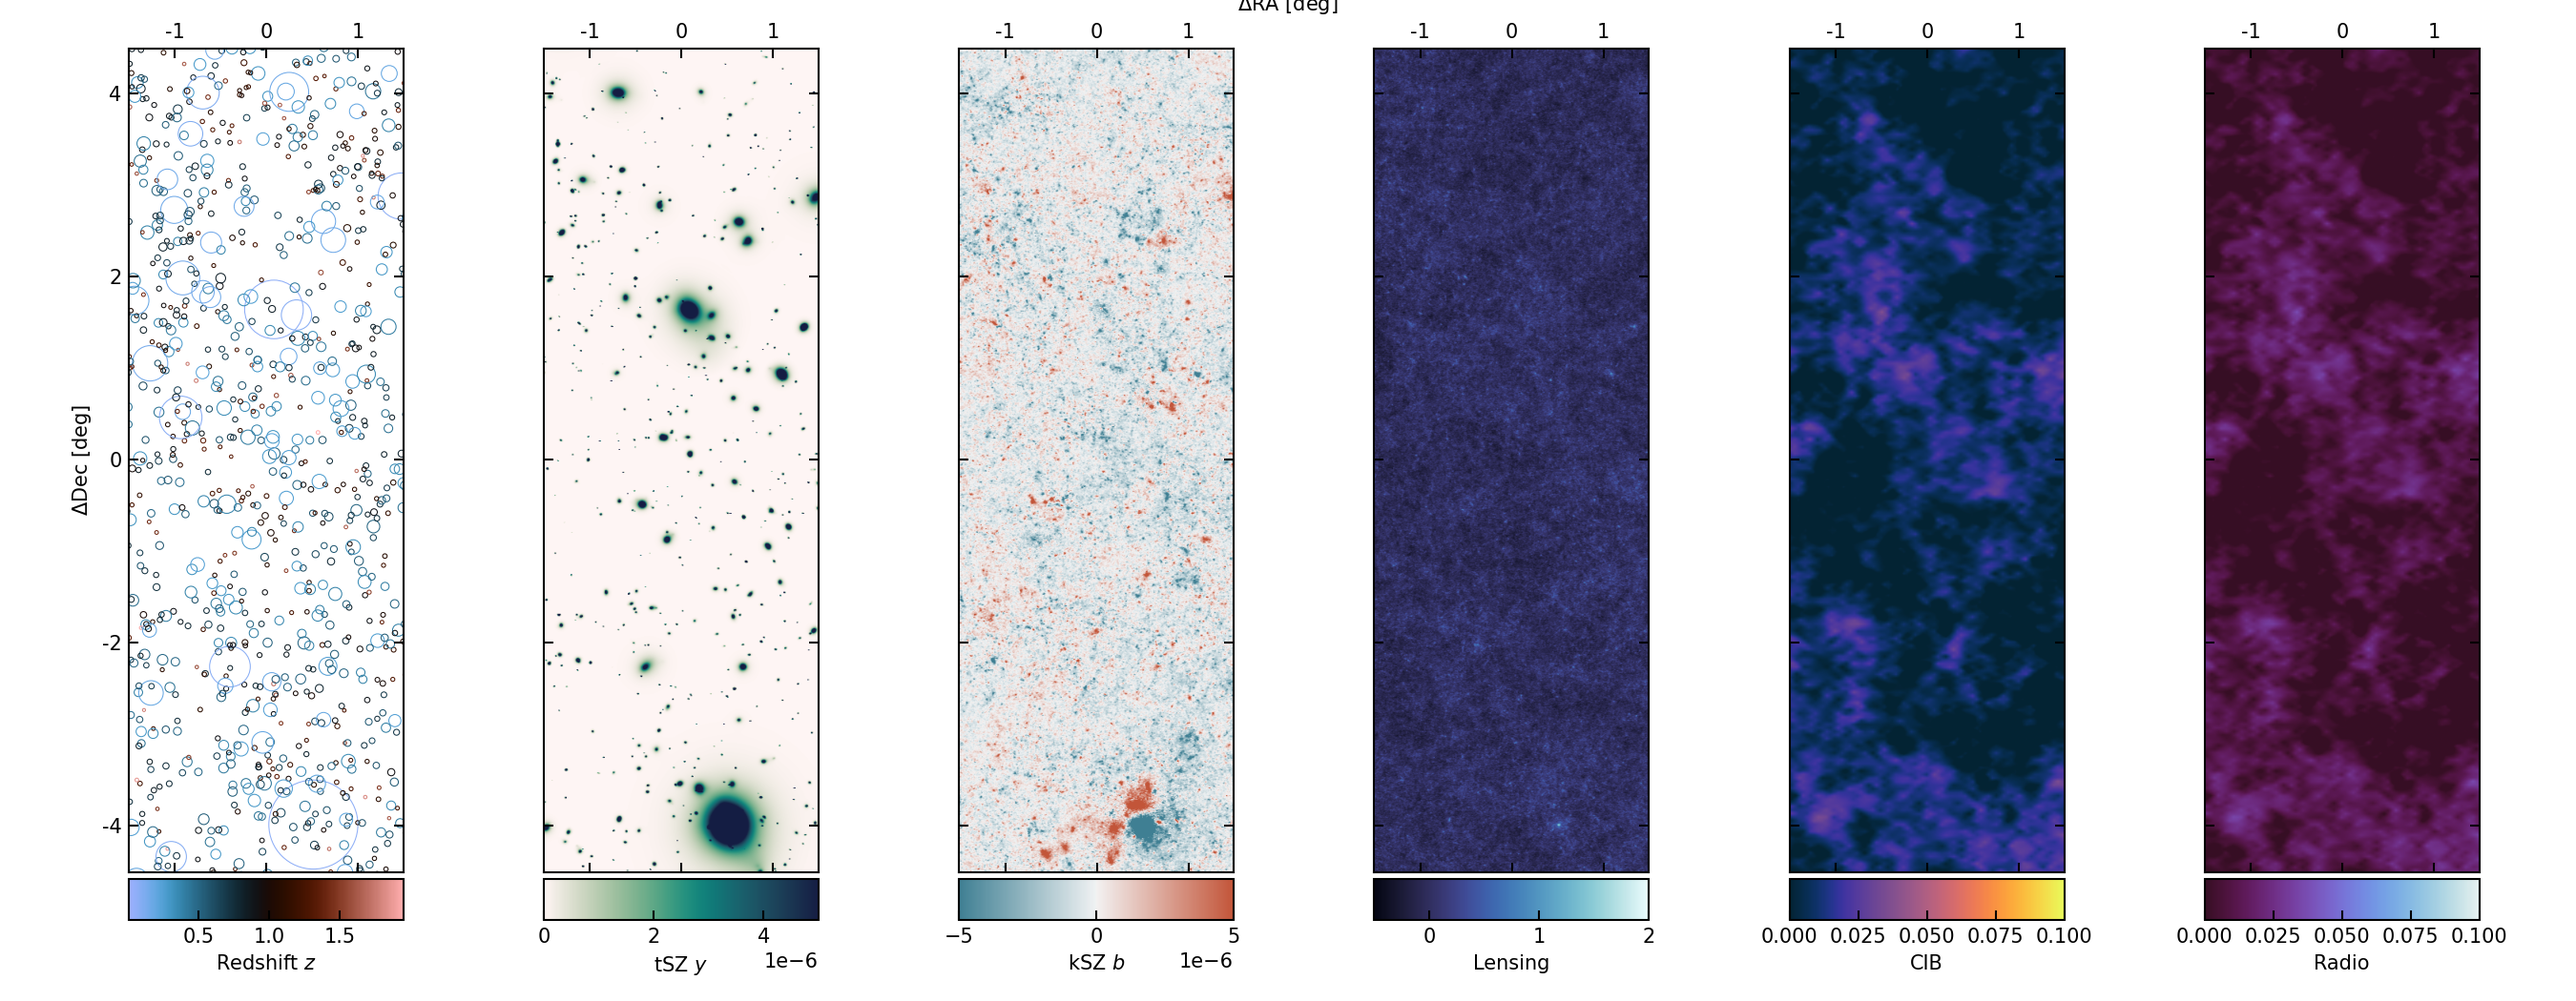
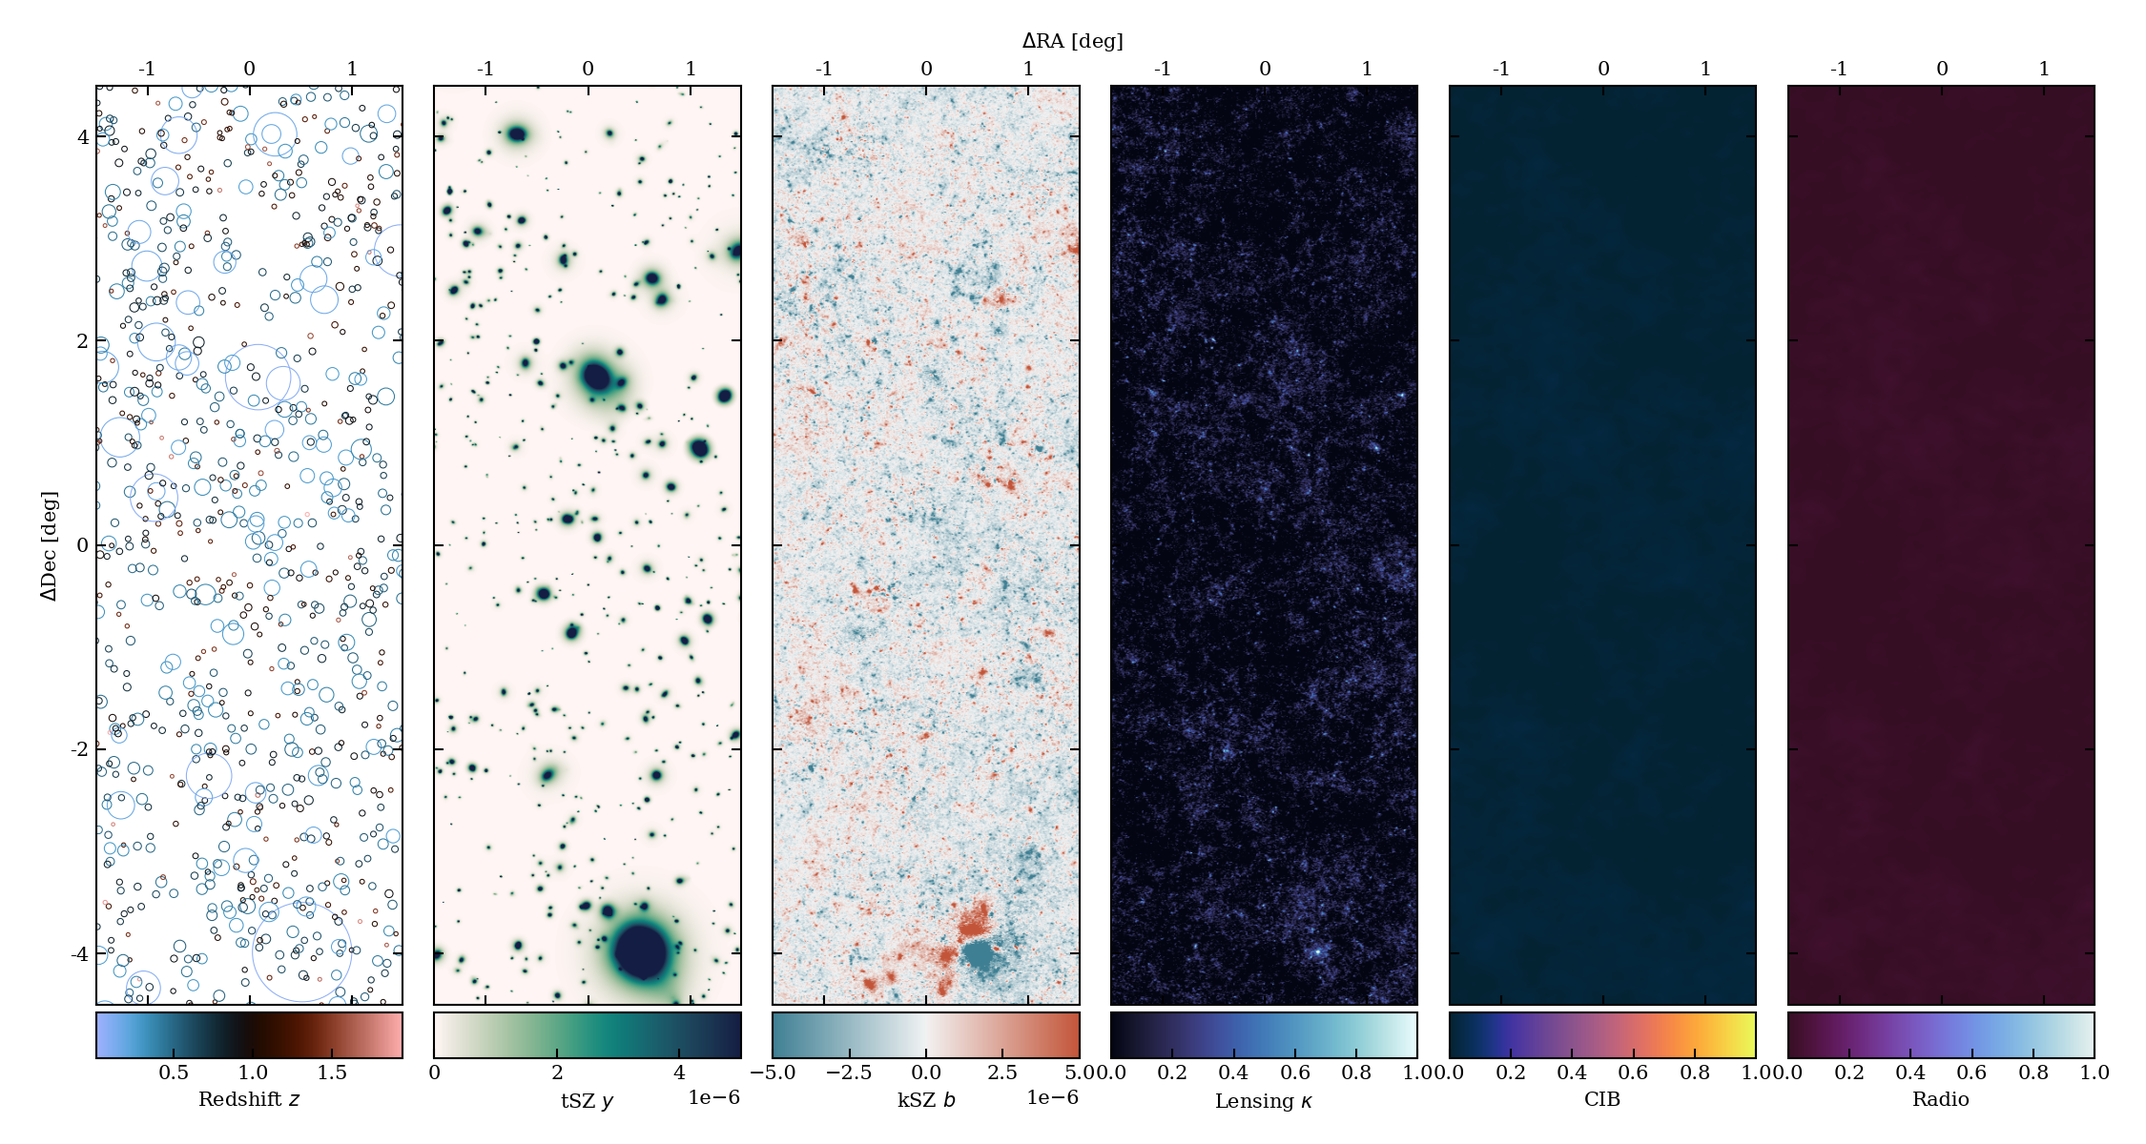
cosmetics

diff --git a/main.py b/main.py
@@ -45,15 +45,25 @@ MAP_CONFIGS = [
     ),
     (
         "/data/a/cpac/prlarsen/sharing/ksz_LJ/kappa_CMB.fits",
-        {"cmap": cmocean.cm.ice, "vmin": -0.5, "vmax": 2.0, "label": "Lensing"},
+        {
+            "cmap": cmocean.cm.ice,
+            "vmin": 0.0,  # -0.5,
+            "vmax": 1.0,
+            "label": "Lensing $\\kappa$",
+        },
     ),
     (
         "./map_cib.fits",
-        {"cmap": cmocean.cm.thermal, "vmin": 0, "vmax": 0.1, "label": "CIB"},
+        {"cmap": cmocean.cm.thermal, "vmin": 0.0, "vmax": 1.0, "label": "CIB"},
     ),
     (
         "./map_radio.fits",
-        {"cmap": cmocean.cm.dense_r, "vmin": 0, "vmax": 0.1, "label": "Radio"},
+        {
+            "cmap": cmocean.cm.dense_r,
+            "vmin": 0.0,
+            "vmax": 1.0,
+            "label": "Radio",
+        },
     ),
 ]
 
@@ -209,6 +219,7 @@ def plot_halos(catalog_path, cosmo_args, ax):
 def plot_map(map_or_path, cosmo_args, ax):
     if isinstance(map_or_path, (str, Path)):
         try:
+            # m = hp.read_map("./toto.toto")
             m = hp.read_map(map_or_path)
         except FileNotFoundError:
             m = hp.read_map("./map_test.fits")
@@ -242,7 +253,7 @@ def plot_map(map_or_path, cosmo_args, ax):
 
 
 def main():
-    fig, axes = plt.subplots(1, 6, figsize=(18, 7), sharex=True, sharey=True)
+    fig, axes = plt.subplots(1, 6, figsize=(15, 8), sharex=True, sharey=True)
     for ax, (path, cosmo_args) in zip(axes, MAP_CONFIGS):
         if cosmo_args.get("type") == "halos":
             plot_halos(path, cosmo_args, ax)
@@ -254,7 +265,7 @@ def main():
         plt.setp(ax.get_yticklabels(), visible=False)
 
     fig.tight_layout()
-    fig.subplots_adjust(wspace=0.01)
+    fig.subplots_adjust(top=0.925, bottom=0.075, wspace=0.01)
     renderer = fig.canvas.get_renderer()
     fig_h_px = fig.get_size_inches()[1] * fig.dpi
     top = max(ax.get_tightbbox(renderer).ymax for ax in axes) / fig_h_px
@@ -269,6 +280,12 @@ def main():
     plt.savefig("sky_components.png", dpi=150)  # , bbox_inches="tight")
     plt.show()
 
+    caxs = fig.get_axes()[-6:]
+    fig.align_xlabels(caxs)
+
+    return fig
+
 
 if __name__ == "__main__":
-    main()
+    plt.rcParams["font.family"] = "serif"
+    fig = main()
